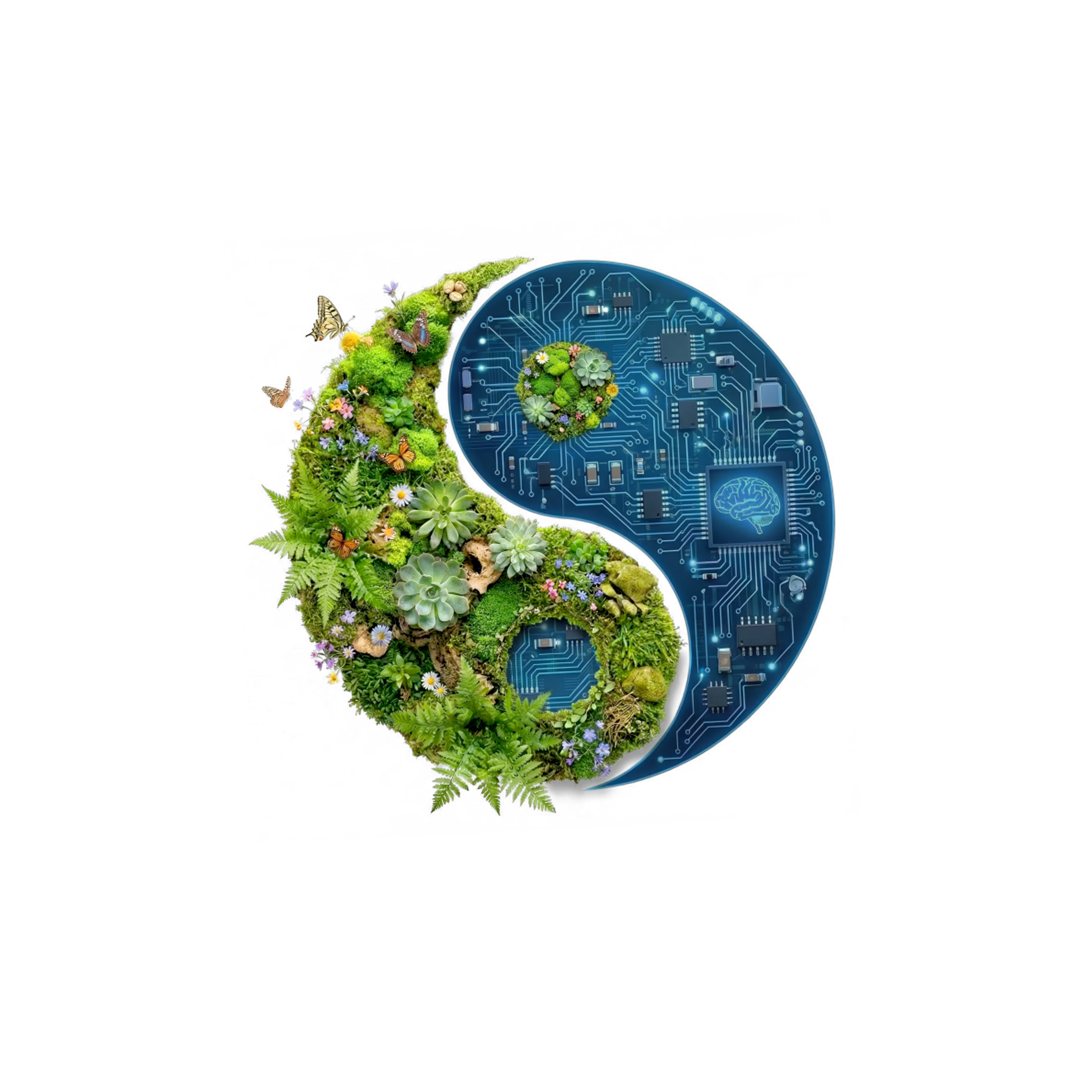
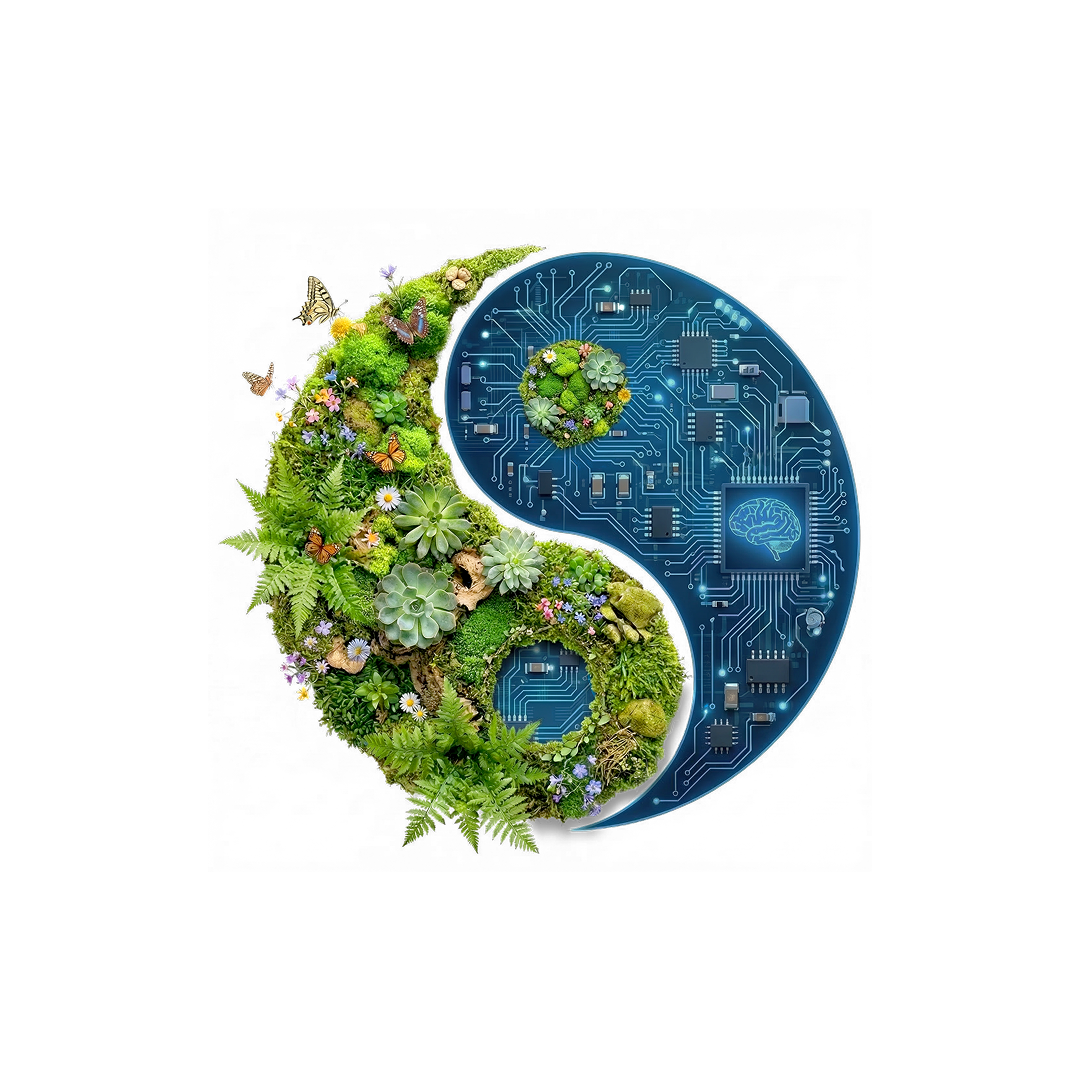
Philosophy orbs: still by default, clip on hover
Each orb now stacks a poster <img> under the <video> and cross-fades between
them, instead of relying on the video's poster attribute, so the still is what
shows at rest and the clip only runs while hovered or focused.

Both layers share one --orb-scale so the swap keeps the artwork the same size;
the section renders 15% larger overall, with the brain clip pulled back 15% to
match its still. The video rewind is deferred past the fade so it never snaps
back to frame 0 while visible.

Also scales orian-base.png down to the ring's diameter, removing the white disc
that showed behind the ring.

Changed region(s): [[0.2139, 0.2139, 0.7944, 0.7944]]

diff --git a/css/sections.css b/css/sections.css
@@ -156,15 +156,30 @@ html.no-js .intro__text .split-word { opacity: 1; }
   pointer-events: auto;
   z-index: 2;
 }
+/* Poster and video are stacked in the same box and cross-fade on hover.
+   Both assets are authored as 1080 squares with matching padding, so they share
+   one scale and need no per-orb correction: the swap is pixel-aligned. */
 .phil-orb__media {
-  --orb-scale: 1;
+  --orb-scale: 1.15;
+  position: absolute;
+  inset: 0;
   width: 100%;
   height: 100%;
   object-fit: contain;
   background: transparent;
   transform: scale(var(--orb-scale));
-  transition: transform 0.7s var(--ease-out);
+  transition: transform 0.7s var(--ease-out), opacity 0.45s var(--ease-out);
 }
+.phil-orb__poster { opacity: 1; z-index: 1; }
+.phil-orb__video {
+  opacity: 0;
+  z-index: 2;
+  pointer-events: none;
+}
+.phil-orb:hover .phil-orb__poster,
+.phil-orb:focus-within .phil-orb__poster { opacity: 0; }
+.phil-orb:hover .phil-orb__video,
+.phil-orb:focus-within .phil-orb__video { opacity: 1; }
 
 .phil-orb__info {
   position: absolute;
@@ -227,7 +242,7 @@ html.no-js .intro__text .split-word { opacity: 1; }
 }
 /* No extra zoom — the left artwork renders at the same size as the middle and
    right orbs on load; only the shared hover nudge (1.03) scales it. */
-.phil-orb--hi-ai .phil-orb__media { --orb-scale: 1; object-position: 80% 50%; }
+.phil-orb--hi-ai .phil-orb__media { object-position: 80% 50%; }
 .phil-orb--hi-ai .phil-orb__info {
   left: 28.813%; top: 7.703%; width: 22.083%;
   gap: clamp(10px, 1.875cqw, 36px);
@@ -244,6 +259,9 @@ html.no-js .intro__text .split-word { opacity: 1; }
   left: 69.604%; top: 2.838%; width: 21.042%; height: 52.973%;
   border-radius: 42.8% 0 0 42.8% / 44.1% 0 0 44.1%;
 }
+/* The brain clip reads larger than its still, so the clip alone is pulled
+   back 15% to match. */
+.phil-orb--xfactors .phil-orb__video { --orb-scale: 0.9775; } /* 1.15 x 0.85 */
 .phil-orb--xfactors .phil-orb__info {
   left: 54.625%; top: 8.919%; width: 19.063%;
   gap: clamp(10px, 1.875cqw, 36px);
@@ -268,7 +286,9 @@ html.no-js .intro__text .split-word { opacity: 1; }
   display: block;
   max-width: none; /* both overhang the frame by their shadow bleed */
 }
-.phil-orb__orian-base { left: -7.3735%; top: 1.2366%; width: 115.5697%; height: 113.7297%; }
+/* Sized so the base disc matches the ring artwork exactly (both 750/1080 of
+   the ring PNG), otherwise the white disc reads as a halo behind the ring. */
+.phil-orb__orian-base { left: 8.337%; top: 15.451%; width: 83.14%; height: 81.82%; }
 /* The ring no longer spins on its own. The animation stays attached but
    paused, so hovering resumes it and leaving pauses it exactly where it is —
    restarting it on hover instead would snap the ring back to 0deg on exit. */

diff --git a/index.html b/index.html
@@ -197,7 +197,8 @@
           <div class="phil-orb phil-orb--hi-ai">
             <span class="phil-orb__glow" aria-hidden="true"></span>
             <a href="#" class="phil-orb__frame" aria-label="Human Ingenuity + Artificial Intelligence">
-              <video class="phil-orb__media" data-phil-video muted playsinline loop preload="none" poster="assets/images/yin-yang-poster.png" width="360" height="360">
+              <img class="phil-orb__media phil-orb__poster" src="assets/images/yin-yang-poster.png" alt="" width="1080" height="1080">
+              <video class="phil-orb__media phil-orb__video" data-phil-video muted playsinline loop preload="none" width="1080" height="1080" aria-hidden="true" tabindex="-1">
                 <source src="assets/videos/Composition 2.webm" type="video/webm">
               </video>
             </a>
@@ -211,7 +212,8 @@
           <div class="phil-orb phil-orb--xfactors">
             <span class="phil-orb__glow" aria-hidden="true"></span>
             <a href="#" class="phil-orb__frame" aria-label="House of Xfactors">
-              <video class="phil-orb__media" data-phil-video muted playsinline loop preload="none" poster="assets/images/brain-flowers.png" width="360" height="360">
+              <img class="phil-orb__media phil-orb__poster" src="assets/images/brain-flowers.png" alt="" width="1080" height="1080">
+              <video class="phil-orb__media phil-orb__video" data-phil-video muted playsinline loop preload="none" width="1080" height="1080" aria-hidden="true" tabindex="-1">
                 <source src="assets/videos/Composition 1.webm" type="video/webm">
               </video>
             </a>

diff --git a/js/animations.js b/js/animations.js
@@ -290,16 +290,26 @@
       vids.forEach(function (v) { io.observe(v); });
     }
 
+    // Matches the opacity transition on .phil-orb__media; the clip keeps running
+    // until the still has fully faded back in so the swap never snaps.
+    var FADE_MS = 450;
+
     vids.forEach(function (v) {
       var orb = v.closest('.phil-orb');
       if (!orb) return;
+      var timer = null;
       var play = function () {
+        if (timer) { clearTimeout(timer); timer = null; }
         var p = v.play();
         if (p && p.catch) { p.catch(function () {}); }
       };
       var rewind = function () {
-        v.pause();
-        try { v.currentTime = 0; } catch (e) {}
+        if (timer) clearTimeout(timer);
+        timer = setTimeout(function () {
+          timer = null;
+          v.pause();
+          try { v.currentTime = 0; } catch (e) {}
+        }, FADE_MS);
       };
       orb.addEventListener('mouseenter', play);
       orb.addEventListener('focusin', play);

diff --git a/css/responsive.css b/css/responsive.css
@@ -105,7 +105,7 @@
     margin-bottom: 28px;
   }
   /* frame is unclipped once stacked, so drop the desktop overscale */
-  .phil-orb--hi-ai .phil-orb__media { --orb-scale: 1; object-position: 50% 50%; }
+  .phil-orb--hi-ai .phil-orb__media { object-position: 50% 50%; }
   .phil-orb__info,
   .phil-orb--hi-ai .phil-orb__info,
   .phil-orb--xfactors .phil-orb__info,
